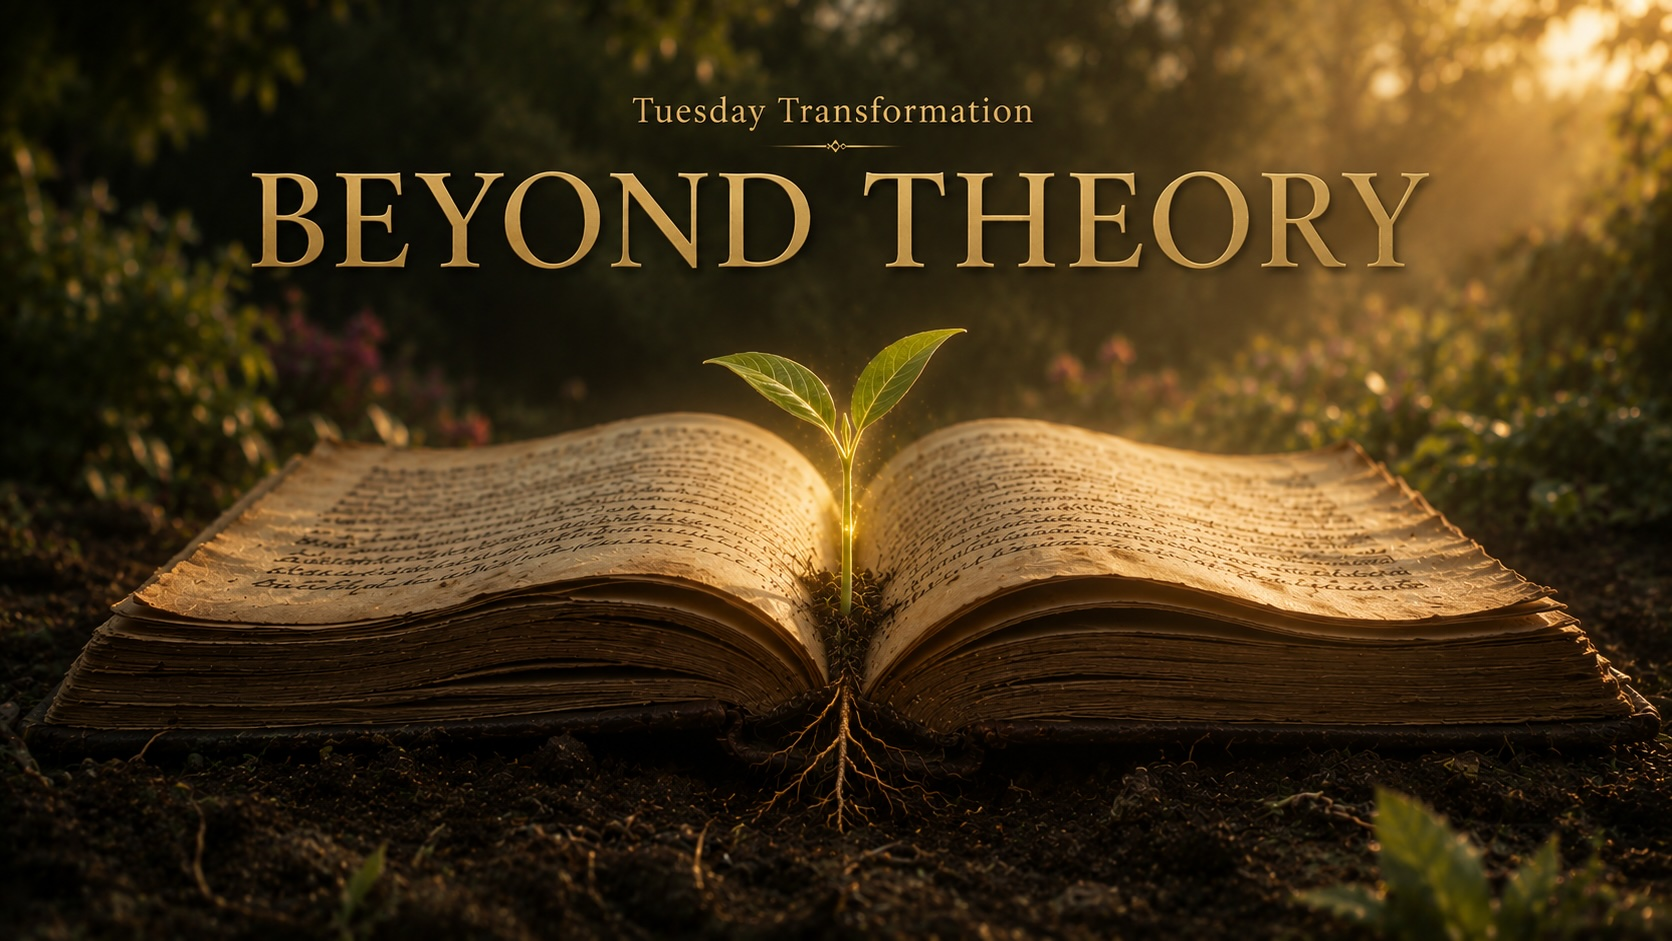
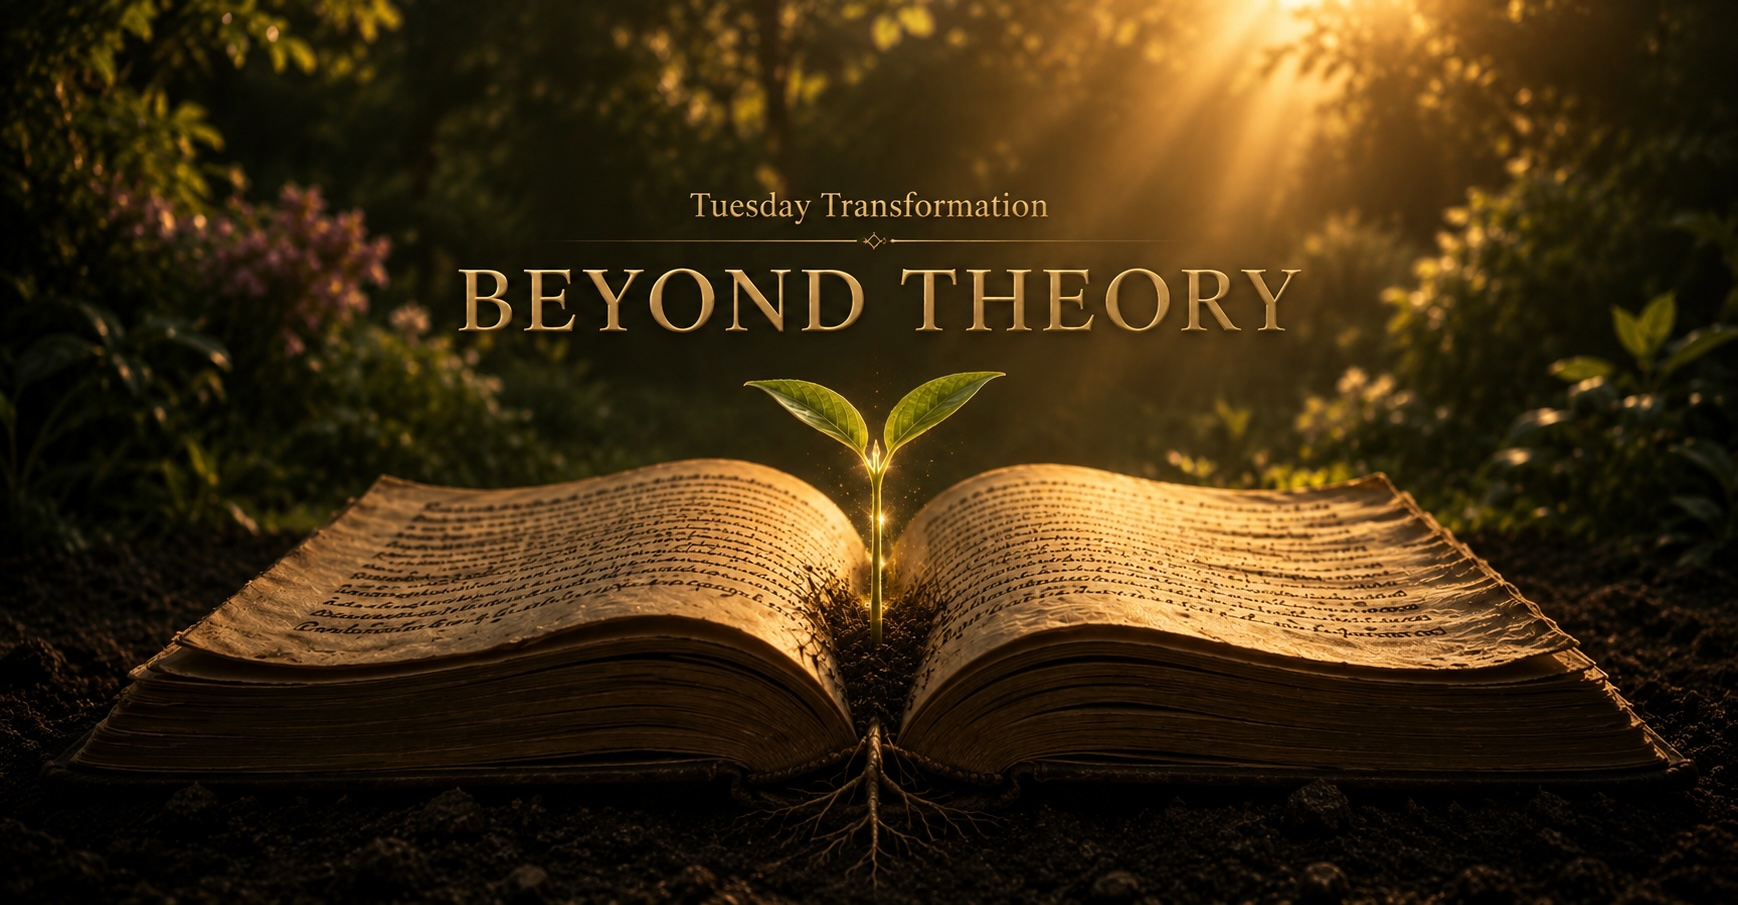
Fix Tuesday artwork

diff --git a/src/content/tuesday/beyond-theory.md b/src/content/tuesday/beyond-theory.md
@@ -4,10 +4,10 @@ date: "2026-05-12"
 series: "Tuesday Transformation"
 scripture: "James 1:22"
 description: "Faith was never meant to remain in the mind alone. Christianity is more than ideas to be studied—it is life in Christ."
-hero: "/images/Tuesday/beyond-theory2.jpg"
+hero: "/images/Tuesday/beyond-theory.jpg"
 iconLeft: "/images/Tuesday/saint-paul-the-apostle.jpg"
 iconRight: "/images/Tuesday/the-potter-and-the-clay.jpg"
-draft: true
+draft: false
 ---
 
 ## Tuesday Transformation
